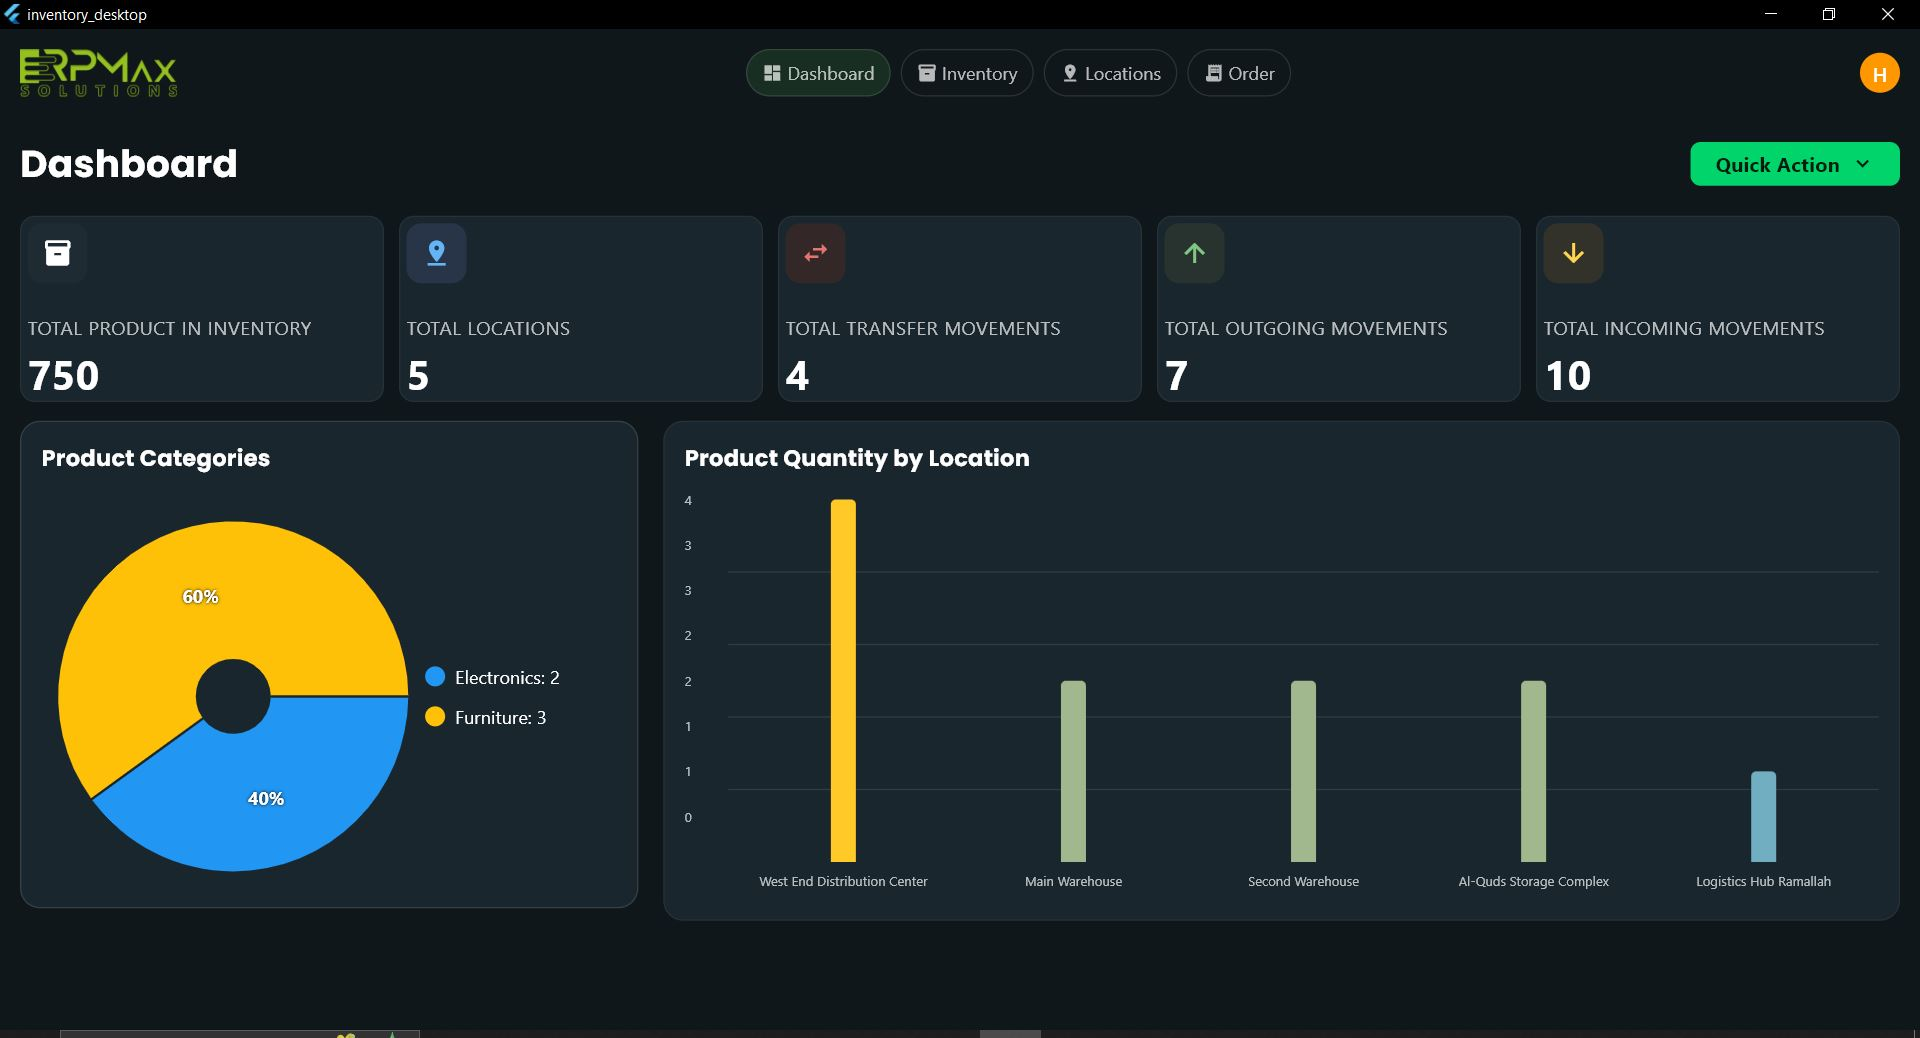
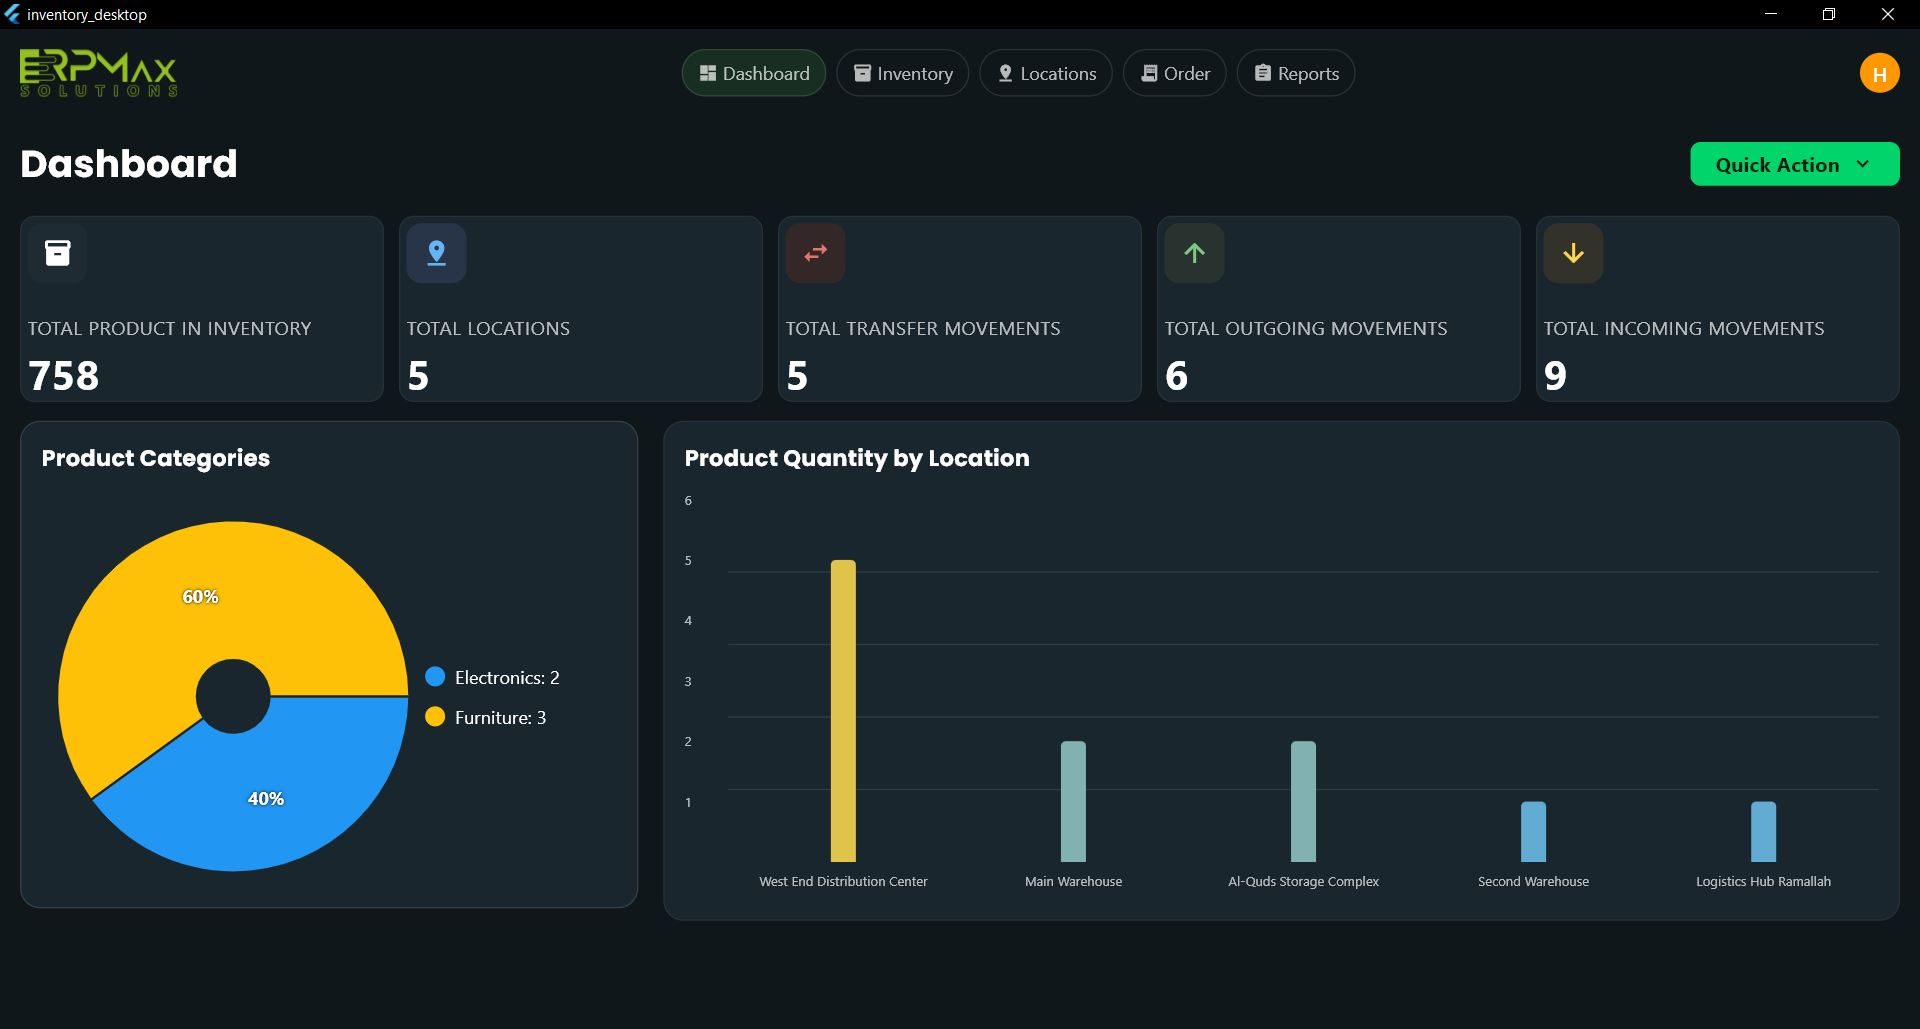
Updated screenshots

diff --git a/lib/screens/ReportsPage.dart b/lib/screens/ReportsPage.dart
@@ -1,3 +1,4 @@
+import 'dart:math' as Math;
 import 'package:flutter/material.dart';
 import 'package:inventory_desktop/controllers/ReportsController.dart';
 import '../models/ProductBalanceReport.dart';
@@ -13,23 +14,34 @@ class ReportsPage extends StatefulWidget {
 class _ReportsPageState extends State<ReportsPage> {
   ReportsController controller = ReportsController();
   List<ProductBalanceReport> balances = [];
+  List<ProductBalanceReport> filteredBalances = [];
+  List<ProductBalanceReport> paginatedBalances = []; // For pagination
   final ScrollController _horizontalScrollController = ScrollController();
   final ScrollController _verticalScrollController = ScrollController();
+  
+  // Search controllers
+  final TextEditingController _productSearchController = TextEditingController();
+  final TextEditingController _locationSearchController = TextEditingController();
   
   // Sorting state
   String _sortColumn = 'quantity';
   bool _sortAscending = false;
+  
+  // Pagination state
+  int _currentPage = 0;
+  final int _pageSize = 15; // Fixed to exactly 15 items per page
+  int _totalPages = 0;
 
   Future<void> loadStockData() async {
     List<ProductBalanceReport> result = await controller.getBalanceForAllProducts();
     setState(() {
       balances = result;
-      _sortData();
+      _applyFilters();
     });
   }
 
   void _sortData() {
-    balances.sort((a, b) {
+    filteredBalances.sort((a, b) {
       var aValue;
       var bValue;
       
@@ -58,6 +70,59 @@ class _ReportsPageState extends State<ReportsPage> {
       }
       return 0;
     });
+    
+    _updatePagination();
+  }
+
+  void _applyFilters() {
+    setState(() {
+      String productSearch = _productSearchController.text.toLowerCase();
+      String locationSearch = _locationSearchController.text.toLowerCase();
+      
+      filteredBalances = balances.where((item) {
+        bool matchesProduct = productSearch.isEmpty || 
+                             item.productName.toLowerCase().contains(productSearch);
+        bool matchesLocation = locationSearch.isEmpty || 
+                              item.locationName.toLowerCase().contains(locationSearch);
+        return matchesProduct && matchesLocation;
+      }).toList();
+      
+      _sortData();
+      _currentPage = 0; // Reset to first page when filters change
+      _updatePagination();
+    });
+  }
+  
+  void _updatePagination() {
+    // Calculate total pages
+    _totalPages = (filteredBalances.length / _pageSize).ceil();
+    if (_totalPages == 0) _totalPages = 1; // At least one page even if empty
+    
+    // Ensure current page is valid
+    if (_currentPage >= _totalPages) _currentPage = _totalPages - 1;
+    if (_currentPage < 0) _currentPage = 0;
+    
+    // Get paginated data - ALWAYS use exactly 15 items per page
+    int startIndex = _currentPage * _pageSize;
+    int endIndex = startIndex + _pageSize;
+    if (endIndex > filteredBalances.length) endIndex = filteredBalances.length;
+    
+    if (filteredBalances.isEmpty) {
+      paginatedBalances = [];
+    } else {
+      paginatedBalances = filteredBalances.sublist(startIndex, endIndex);
+    }
+    
+    print('Page size: $_pageSize, showing ${paginatedBalances.length} items');
+  }
+  
+  void _changePage(int page) {
+    setState(() {
+      _currentPage = page;
+      _updatePagination();
+      // Scroll back to top when page changes
+      _verticalScrollController.jumpTo(0);
+    });
   }
 
   void _onSort(String column) {
@@ -75,7 +140,22 @@ class _ReportsPageState extends State<ReportsPage> {
   @override
   void initState() {
     super.initState();
+    // Add listeners to search controllers
+    _productSearchController.addListener(_applyFilters);
+    _locationSearchController.addListener(_applyFilters);
     loadStockData();
+    
+    // Ensure we're using 15 items per page
+    print('Initialized with page size: $_pageSize');
+  }
+
+  @override
+  void dispose() {
+    _productSearchController.dispose();
+    _locationSearchController.dispose();
+    _horizontalScrollController.dispose();
+    _verticalScrollController.dispose();
+    super.dispose();
   }
 
   @override
@@ -88,6 +168,7 @@ class _ReportsPageState extends State<ReportsPage> {
         child: Column(
           crossAxisAlignment: CrossAxisAlignment.start,
           children: [
+            // Title row with search fields
             Row(
               children: [
                 const Text(
@@ -99,7 +180,82 @@ class _ReportsPageState extends State<ReportsPage> {
                     fontFamily: 'Poppins',
                   ),
                 ),
-                SizedBox(width: 5),
+                const Spacer(flex: 1),
+                // Product search field
+                Container(
+                  width: 250,
+                  height: 40,
+                  decoration: BoxDecoration(
+                    color: Color(0xFF1A2327),
+                    borderRadius: BorderRadius.circular(8),
+                    border: Border.all(color: Colors.grey[800]!),
+                  ),
+                  padding: EdgeInsets.symmetric(horizontal: 12),
+                  margin: EdgeInsets.only(right: 16),
+                  child: Row(
+                    children: [
+                      Icon(Icons.search, color: Colors.grey[400], size: 20),
+                      SizedBox(width: 8),
+                      Expanded(
+                        child: TextField(
+                          controller: _productSearchController,
+                          decoration: InputDecoration(
+                            hintText: 'Search Product',
+                            hintStyle: TextStyle(color: Colors.grey[400]),
+                            border: InputBorder.none,
+                            isDense: true,
+                            contentPadding: EdgeInsets.zero,
+                          ),
+                          style: TextStyle(color: Colors.white),
+                        ),
+                      ),
+                      if (_productSearchController.text.isNotEmpty)
+                        GestureDetector(
+                          onTap: () {
+                            _productSearchController.clear();
+                          },
+                          child: Icon(Icons.close, color: Colors.grey[400], size: 16),
+                        ),
+                    ],
+                  ),
+                ),
+                // Location search field
+                Container(
+                  width: 250,
+                  height: 40,
+                  decoration: BoxDecoration(
+                    color: Color(0xFF1A2327),
+                    borderRadius: BorderRadius.circular(8),
+                    border: Border.all(color: Colors.grey[800]!),
+                  ),
+                  padding: EdgeInsets.symmetric(horizontal: 12),
+                  child: Row(
+                    children: [
+                      Icon(Icons.location_on, color: Colors.grey[400], size: 20),
+                      SizedBox(width: 8),
+                      Expanded(
+                        child: TextField(
+                          controller: _locationSearchController,
+                          decoration: InputDecoration(
+                            hintText: 'Search Location',
+                            hintStyle: TextStyle(color: Colors.grey[400]),
+                            border: InputBorder.none,
+                            isDense: true,
+                            contentPadding: EdgeInsets.zero,
+                          ),
+                          style: TextStyle(color: Colors.white),
+                        ),
+                      ),
+                      if (_locationSearchController.text.isNotEmpty)
+                        GestureDetector(
+                          onTap: () {
+                            _locationSearchController.clear();
+                          },
+                          child: Icon(Icons.close, color: Colors.grey[400], size: 16),
+                        ),
+                    ],
+                  ),
+                ),
               ],
             ),
             SizedBox(height: 20),
@@ -113,7 +269,6 @@ class _ReportsPageState extends State<ReportsPage> {
                     ? Center(child: CircularProgressIndicator())
                     : LayoutBuilder(
                         builder: (context, constraints) {
-                    
                           double totalWidth = constraints.maxWidth;
                           double quantityWidth = totalWidth * 0.15; 
                           double remainingWidth = totalWidth - quantityWidth;
@@ -155,33 +310,111 @@ class _ReportsPageState extends State<ReportsPage> {
                               
                               // Table body
                               Expanded(
-                                child: Scrollbar(
-                                  controller: _verticalScrollController,
-                                  thumbVisibility: true,
-                                  child: SingleChildScrollView(
-                                    controller: _verticalScrollController,
-                                    child: NotificationListener<ScrollNotification>(
-                                      onNotification: (ScrollNotification scrollInfo) {
-                                        if (scrollInfo is ScrollStartNotification) {
-                                          // Sync horizontal scroll of header and body
-                                          _horizontalScrollController.jumpTo(_horizontalScrollController.offset);
-                                        }
-                                        return false;
-                                      },
-                                      child: SingleChildScrollView(
-                                        controller: _horizontalScrollController,
-                                        scrollDirection: Axis.horizontal,
-                                        child: Column(
-                                          children: balances.map((item) => _buildDataRow(
-                                            item, 
-                                            quantityWidth, 
-                                            productWidth, 
-                                            locationWidth,
-                                          )).toList(),
+                                child: filteredBalances.isEmpty
+                                    ? Center(
+                                        child: Text(
+                                          "No matching products found",
+                                          style: TextStyle(color: Colors.white70),
+                                        ),
+                                      )
+                                    : Scrollbar(
+                                        controller: _verticalScrollController,
+                                        thumbVisibility: true,
+                                        child: SingleChildScrollView(
+                                          controller: _verticalScrollController,
+                                          child: NotificationListener<ScrollNotification>(
+                                            onNotification: (ScrollNotification scrollInfo) {
+                                              if (scrollInfo is ScrollStartNotification) {
+                                                // Sync horizontal scroll of header and body
+                                                _horizontalScrollController.jumpTo(_horizontalScrollController.offset);
+                                              }
+                                              return false;
+                                            },
+                                            child: SingleChildScrollView(
+                                              controller: _horizontalScrollController,
+                                              scrollDirection: Axis.horizontal,
+                                              child: Column(
+                                                children: paginatedBalances.map((item) => _buildDataRow(
+                                                  item, 
+                                                  quantityWidth, 
+                                                  productWidth, 
+                                                  locationWidth,
+                                                )).toList(),
+                                              ),
+                                            ),
+                                          ),
                                         ),
                                       ),
-                                    ),
+                              ),
+                              
+                              // Pagination controls
+                              Container(
+                                height: 50,
+                                decoration: BoxDecoration(
+                                  border: Border(
+                                    top: BorderSide(color: Colors.grey[800]!, width: 1),
                                   ),
+                                ),
+                                padding: EdgeInsets.symmetric(horizontal: 16),
+                                child: Row(
+                                  mainAxisAlignment: MainAxisAlignment.spaceBetween,
+                                  children: [
+                                    // Info text
+                                    Text(
+                                      'Showing ${_currentPage * _pageSize + 1} to ${Math.min((_currentPage * _pageSize) + paginatedBalances.length, filteredBalances.length)} of ${filteredBalances.length} entries',
+                                      style: TextStyle(color: Colors.white70),
+                                    ),
+                                    
+                                    // Page navigation
+                                    Row(
+                                      children: [
+                                        // First page button
+                                        IconButton(
+                                          icon: Icon(Icons.first_page),
+                                          onPressed: _currentPage == 0 ? null : () => _changePage(0),
+                                          color: Colors.white70,
+                                          disabledColor: Colors.grey[700],
+                                        ),
+                                        
+                                        // Previous page button
+                                        IconButton(
+                                          icon: Icon(Icons.navigate_before),
+                                          onPressed: _currentPage == 0 ? null : () => _changePage(_currentPage - 1),
+                                          color: Colors.white70,
+                                          disabledColor: Colors.grey[700],
+                                        ),
+                                        
+                                        // Current page indicator
+                                        Container(
+                                          padding: EdgeInsets.symmetric(horizontal: 12, vertical: 6),
+                                          decoration: BoxDecoration(
+                                            color: Colors.blue[800],
+                                            borderRadius: BorderRadius.circular(4),
+                                          ),
+                                          child: Text(
+                                            '${_currentPage + 1}',
+                                            style: TextStyle(color: Colors.white),
+                                          ),
+                                        ),
+                                        
+                                        // Next page button
+                                        IconButton(
+                                          icon: Icon(Icons.navigate_next),
+                                          onPressed: _currentPage >= _totalPages - 1 ? null : () => _changePage(_currentPage + 1),
+                                          color: Colors.white70,
+                                          disabledColor: Colors.grey[700],
+                                        ),
+                                        
+                                        // Last page button
+                                        IconButton(
+                                          icon: Icon(Icons.last_page),
+                                          onPressed: _currentPage >= _totalPages - 1 ? null : () => _changePage(_totalPages - 1),
+                                          color: Colors.white70,
+                                          disabledColor: Colors.grey[700],
+                                        ),
+                                      ],
+                                    ),
+                                  ],
                                 ),
                               ),
                             ],
